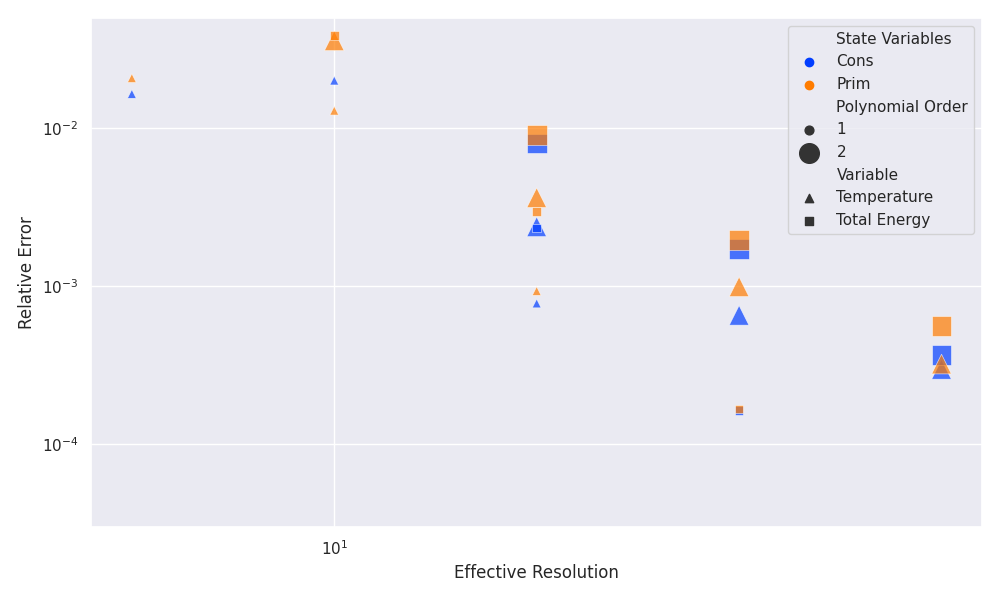
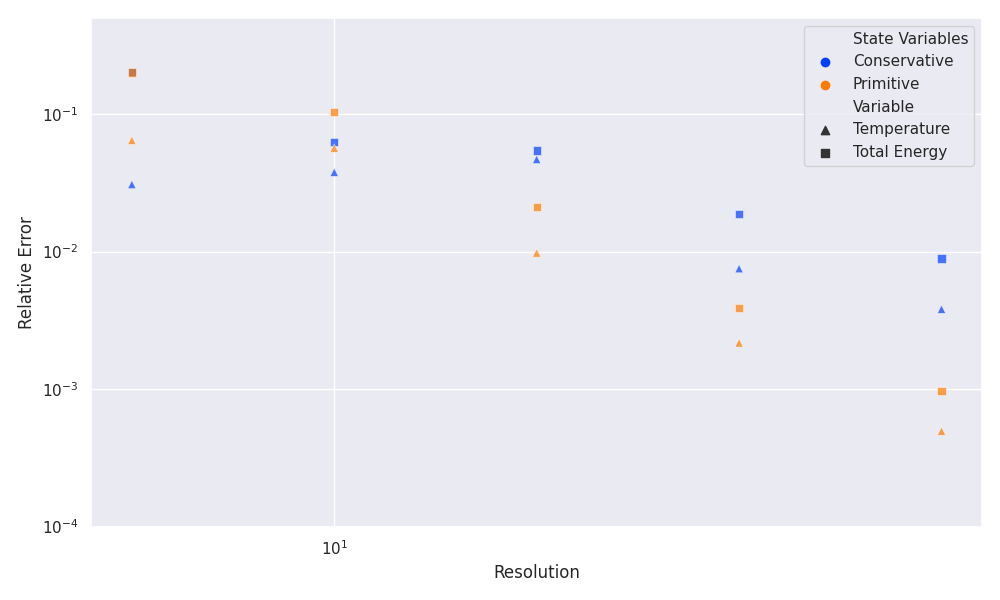
add final results

diff --git a/wccm22/error-primVScons-plot.py b/wccm22/error-primVScons-plot.py
@@ -10,11 +10,10 @@ def plot(runs, show):
     fig, ax = plt.subplots(figsize=(10, 6), layout='tight')
     ax.set(xscale='log', yscale='log', ylim=(3e-5,5e-2))
     sns.scatterplot(
-        x='Effective Resolution',
+        x='Resolution',
         y='Relative Error',
         style='Variable',
         markers={'Total Energy': 's', 'Temperature': '^'},
-        size='Polynomial Order',
         palette='bright',
         hue='State Variables',
         sizes=(40, 200),
@@ -22,6 +21,7 @@ def plot(runs, show):
         ax=ax,
         data=runs,
     )
+    plt.ylim(1e-4, .5)
     plt.legend(loc='upper right')
     if show:
         plt.show()
